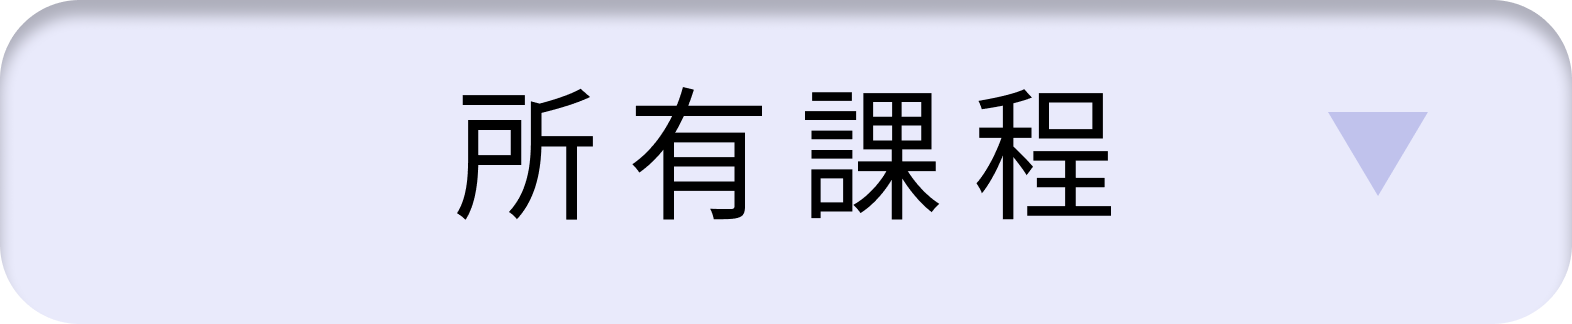
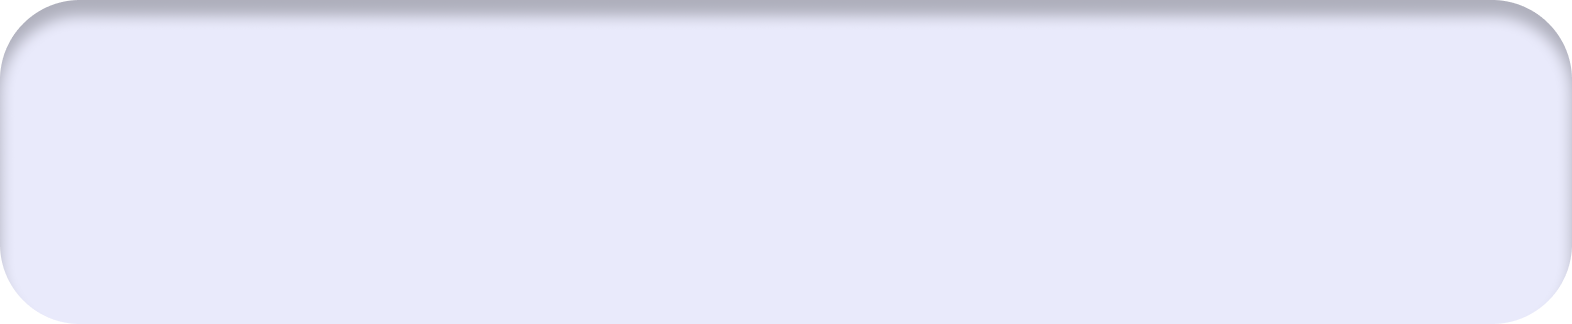
feat:加入更多CSS的調整
除了select的CSS調整稍微不理想以及老師輸入連結的頁面尚未完成
其餘皆完成

Changed region(s): [[0.4052, 0.2778, 0.7169, 0.679], [0.2805, 0.2778, 0.374, 0.679], [0.8416, 0.3395, 0.9039, 0.5864]]

diff --git a/src/CSS/All.css b/src/CSS/All.css
@@ -6,8 +6,8 @@
     top: 558px;
     background-image: url('../UI/課程內容提醒調整區/上課時間.png');
     background-size:117px 120px;
-    background-color: rgb(255, 255, 255);
-    border-color: rgb(255, 255, 255);
+    background-color: rgb(253, 250, 250);
+    border-color: rgb(253, 250, 250);
     z-index:800
 }
 
@@ -19,8 +19,8 @@
     top: 558px;
     background-image: url('../UI/課程內容提醒調整區/上課時間hover.png');
     background-size:117px 120px;
-    background-color: rgb(255, 255, 255);
-    border-color: rgb(255, 255, 255);
+    background-color: rgb(253, 250, 250);
+    border-color: rgb(253, 250, 250);
     z-index:800
 }
 .button-teacher-true{
@@ -31,8 +31,8 @@
     top: 558px;    
     background-image: url('../UI/課程內容提醒調整區/教授圖.png');
     background-size:117px 120px;
-    background-color: rgb(255, 255, 255);
-    border-color: rgb(255, 255, 255);
+    background-color: rgb(253, 250, 250);
+    border-color: rgb(253, 250, 250);
     z-index:800
 }
 
@@ -44,8 +44,8 @@
     top: 558px;    
     background-image: url('../UI/課程內容提醒調整區/教授圖hover.png');
     background-size:117px 120px;
-    background-color: rgb(255, 255, 255);
-    border-color: rgb(255, 255, 255);
+    background-color: rgb(253, 250, 250);
+    border-color: rgb(253, 250, 250);
     z-index:800
 }
 
@@ -57,8 +57,8 @@
     top: 732px;    
     background-image: url('../UI/課程內容提醒調整區/時間下拉選單集purple/提醒時間.png');
     background-size:117px 120px;
-    background-color: rgb(255, 255, 255);
-    border-color: rgb(255, 255, 255);
+    background-color: rgb(253, 250, 250);
+    border-color: rgb(253, 250, 250);
     z-index:800
 }
 .button-alart-false{
@@ -69,8 +69,8 @@
     top: 732px;    
     background-image: url('../UI/課程內容提醒調整區/時間下拉選單集purple/提醒時間hover.png');
     background-size:117px 120px;
-    background-color: rgb(255, 255, 255);
-    border-color: rgb(255, 255, 255);
+    background-color: rgb(253, 250, 250);
+    border-color: rgb(253, 250, 250);
     z-index:800
 }
 
@@ -193,23 +193,141 @@
     z-index:800
 }
 
-.select-course{
+.select-course {
+    background-image: url('../UI/課程內容提醒調整區/所有課程鈕.png');
+    background-size:100% 100%;
+    background-color: rgb(253, 250, 250);
+    border-color: rgb(253, 250, 250);
     position: absolute;
     width: 393px;
+    text-align: center;
     height: 81px;
     left: 172px;
     top: 450px;
-    z-index:800
+    z-index:800;
+    font-size: 36px;
+    line-height: 36px;
+    font-weight: 600;
 }
 
 .select-time{
-    background-image: url('../UI/課程內容提醒調整區/時間下拉選單集purple/鈴鐺hover-5.png');
+    background-image: url('../UI/課程內容提醒調整區/時間下拉選單集purple/selectBackground.png');
     background-size:100% 100%;
+    background-color: rgb(253, 250, 250);
+    border-color: rgb(253, 250, 250);
     position: absolute;
     width: 113px;
     height: 41px;
     left: 400px;
-    top: 738px;
-    z-index:800
+    top: 770px;
+    z-index:800;
+    font-weight: 600;
+    font-size: 24px;
+    text-align:center;
+    font-family: 'Jua';
+
+}
+
+.people-login{
+    background-image: url('../UI/登入提醒.png');
+    background-size:100% 100%;
+    background-color: rgb(253, 250, 250,0);
+    border-color: rgb(253, 250, 250,0);
+    position: absolute;
+    width: 511.46px;
+    height: 628px;
+    left: 47.35px;
+    top: 434px;
+
+}
+
+.user-name{
+    position: absolute;
+    width: 200px;
+    height: 56px;
+    left: 665px;
+    top: 436px;
+
+    font-family: 'Jua';
+    font-style: normal;
+    font-weight: 400;
+    font-size: 40px;
+    line-height: 50px;
+    text-align: center;
+}
+
+.password{
+    position: absolute;
+    width: 200px;
+    height: 56px;
+    left: 665px;
+    top: 538px;
+
+    font-family: 'Jua';
+    font-style: normal;
+    font-weight: 400;
+    font-size: 40px;
+    line-height: 50px;
+    text-align: center;
+}
+
+.input-name{
+    position: absolute;
+    width: 460px;
+    height: 70px;
+    left: 900px;
+    top: 429px;
+    font-family: 'Jua';
+    font-style: normal;
+    font-weight: 400;
+    font-size: 40px;
+}
+
+.input-password{
+    position: absolute;
+    width: 460px;
+    height: 70px;
+    left: 900px;
+    top: 531px;
+    font-family: 'Jua';
+    font-style: normal;
+    font-weight: 400;
+    font-size: 40px;
+}
+
+.login-background{
+    background-image: url('../UI/登入/背景.png');
+    background-size:100% 100%;
+    background-color: rgb(253, 250, 250,0);
+    border-color: rgb(253, 250, 250,0);
+    position: absolute;
+    width: 760px;
+    height: 433px;
+    left: 641px;
+    top: 352px;    
+}
+
+.button-login{
+    background-image: url('../UI/登入/登入.png');
+    background-size:100% 100%;
+    background-color: rgb(253, 250, 250,0);
+    border-color: rgb(253, 250, 250,0);
+    position: absolute;
+    width: 460px;
+    height: 70px;
+    left: 811px;
+    top: 665px;    
+}
+
+.login-title{
+    background-image: url('../UI/登入/政準時上線.png');
+    background-size:100% 100%;
+    background-color: rgb(253, 250, 250,0);
+    border-color: rgb(253, 250, 250,0);
+    position: absolute;
+    width: 511px;
+    height: 96px;
+    left: 726px;
+    top: 184px;
 
 }

diff --git a/src/components/LoginPageCom.js b/src/components/LoginPageCom.js
@@ -45,15 +45,18 @@ export default function Login(){
 
     return(
       <form onSubmit={Submit}>
+        <div className="login-background"></div>
+        <div className="login-title"></div>
         <div>
-          <label><b>Username : </b></label>
-          <input ref={LoginUser} type="text" placeholder="Enter UserID" name="uname" required></input>
+          <label className="user-name"><b>Username : </b></label>
+          <input className ="input-name" ref={LoginUser} type="text" placeholder="Enter UserID" name="uname" required></input>
         </div>
         <div>
-          <label><b>Password : </b></label>
-          <input ref={LoginPas} type="password" placeholder="Enter Password" name="psw" required></input>
+          <label className="password"><b>Password : </b></label>
+          <input className ="input-password" ref={LoginPas} type="password" placeholder="Enter Password" name="psw" required></input>
         </div>
-        <button type="submit">Login</button>
+        <button className ="button-login" type="submit"></button>
+        <div className="people-login"></div>
       </form>
     );
 }

diff --git a/src/components/StudentSelectCourse.js b/src/components/StudentSelectCourse.js
@@ -7,6 +7,7 @@ import Open from "./Open";
 import Status from "./Status";
 import RemindTimeList from "./RemindTimeList";
 import Alert from "./Alert";
+import image2 from "../UI/課表.png";
 
 
 export default function StudentSelectCourse({userId}) {
@@ -26,9 +27,18 @@ export default function StudentSelectCourse({userId}) {
 
   return (
     <>
-      <select className = "select-course" defaultValue={selected} onChange={event => 
-        setSelected(event.target.value)
-      }>
+      <div className = "class-table">
+        <img src={image2} alt="image2" />
+      </div>
+
+      <div className = "adjust-area"></div>
+
+      <select className = "select-course" 
+        defaultValue={selected} 
+        onChange={event =>
+          setSelected(event.target.value)
+        }
+      >
         {user.course.map((course, i) => (
           <option value={course.id}>{course.name}</option>
         ))}

diff --git a/src/components/AdjustmentArea.js b/src/components/AdjustmentArea.js
@@ -4,7 +4,7 @@ import StudentSelectCourse from "./StudentSelectCourse";
 import TeacherSelectCourse from "./TeacherSelectCourse";
 import usersData from "../data/usersData.json";
 import css from "../CSS/All.css";
-import image2 from "../UI/課表.png";
+
 
 
 export default function AdjustmentArea({userId}) {
@@ -19,12 +19,7 @@ export default function AdjustmentArea({userId}) {
       }
     </div>
     
-    <div className = "class-table">
-      <img src={image2} alt="image2" />
-    </div>
 
-    <div className = "adjust-area">
-    </div>
 
     <div className = "people">
     </div>

diff --git a/src/components/TeacherSelectCourse.js b/src/components/TeacherSelectCourse.js
@@ -20,9 +20,13 @@ export default function TeacherSelectCourse({userId}) {
 
   return (
     <>
-      <select defaultValue={selected} onChange={event => 
-        setSelected(event.target.value)
-      }>
+      <select 
+        className = "select-course"
+        defaultValue={selected} 
+        onChange={event => 
+          setSelected(event.target.value)
+        }
+      >
         {user.course.map((course, i) => (
           <option value={course.id}>{course.name}</option>
         ))}
